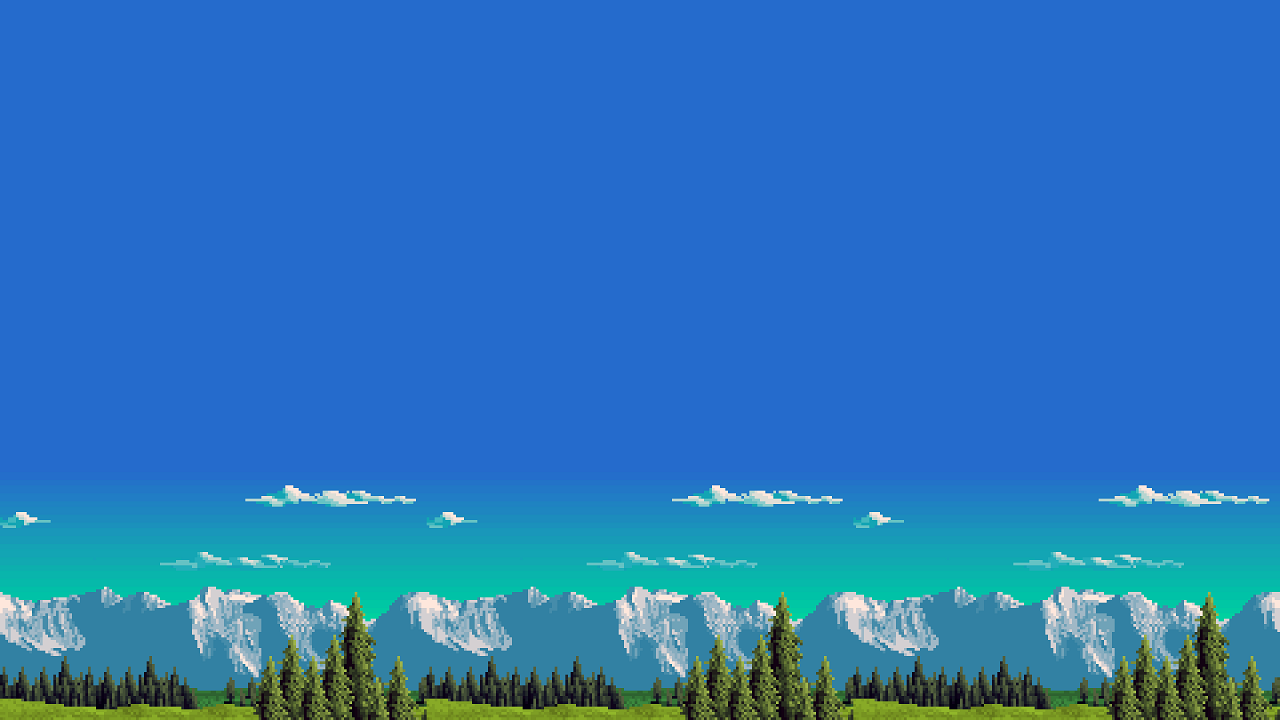
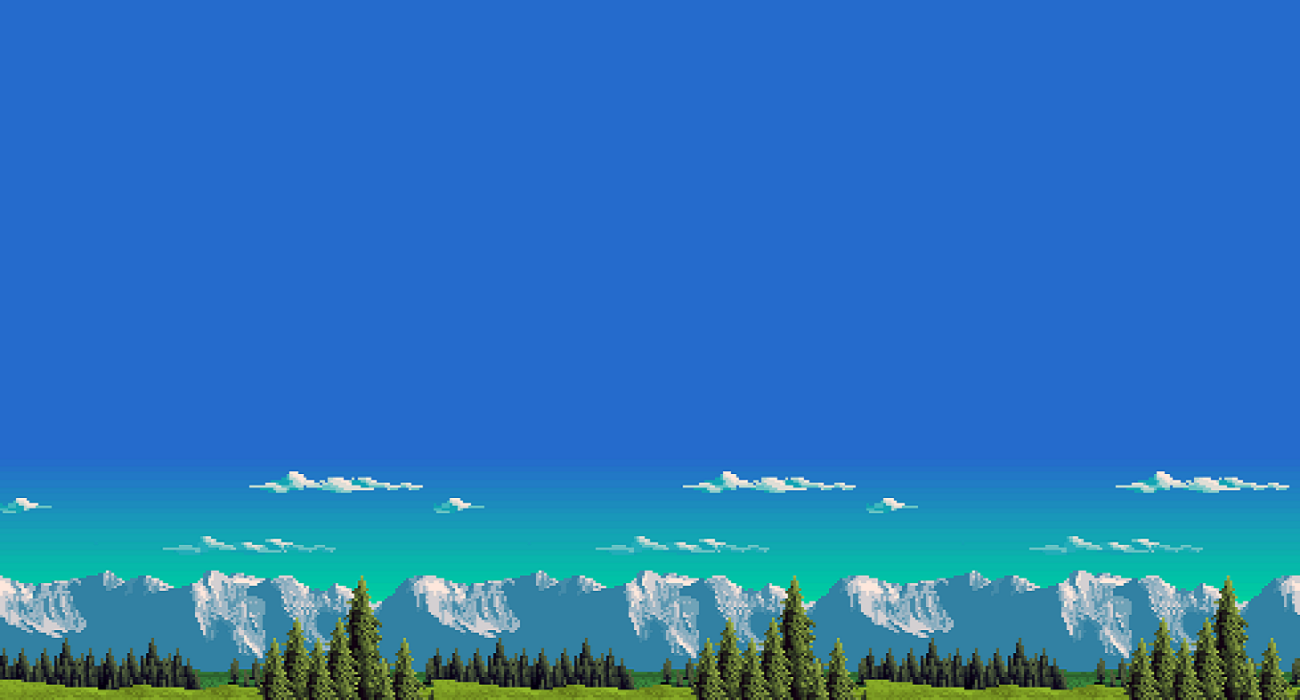
Added More Assets and Changes in Map 1

diff --git a/scenes/map1.js b/scenes/map1.js
@@ -1,8 +1,10 @@
 var map1Scene = new Phaser.Scene('map1');
-var positionYPlayer = 5;
 var positionXPlayer = 2;
-var positionYEnemy = 5;
-var positionXEnemy = 11;
+var positionYPlayer = 4;
+var positionXEnemy = 9;
+var positionYEnemy = 4;
+var positionXPortal = 13;
+var positionYPortal = 4;
 var lives = localStorage.getItem("lives");
 var textP;
 var textE;
@@ -10,7 +12,7 @@ var textB;
 var oldXYPlayer = [2,5];
 
 //Set obstacles location
-var blocked = ['4,5', '6,4','8,6'];
+var blocked = ['4,3','7,4','4,5','7,6','8,6','7,2','8,2','10,3','10,5'];
 
 //Background Song
 var bgSong = new Audio('assets/sounds/bgSong.mp3');
@@ -39,7 +41,10 @@ map1Scene.preload = function () {
     this.load.image('enemy', 'assets/images/enemy.png');
     this.load.image('portal', 'assets/images/portal.png');
     this.load.image('life', 'assets/images/heart.png');
-    this.load.image('obstacle','assets/images/obstacle.png');
+    this.load.image('fire','assets/images/obstacles/fire.png');
+    this.load.image('barrel','assets/images/obstacles/barrel.png');
+    this.load.image('rock','assets/images/obstacles/rock.png');
+    this.load.image('bush','assets/images/obstacles/bush.png');
     this.load.image('skull','assets/images/skull.png')
 };
 
@@ -62,24 +67,32 @@ map1Scene.create = function () {
     this.space = this.input.keyboard.addKey(Phaser.Input.Keyboard.KeyCodes.SPACE);
 
     //Player Sprite
-    this.player = this.add.sprite(140, this.sys.game.config.height / 2, 'player');
+    this.player = this.add.sprite(150, 350, 'player');
     this.player.setScale(1);
 
     //portal Sprite
-    this.portal = this.add.sprite(this.sys.game.config.width - 100, this.sys.game.config.height / 2, 'portal');
-    this.portal.setScale(0.4);
+    this.portal = this.add.sprite(1250, 350, 'portal');
+    this.portal.setScale(0.3);
 
     //Enemy Sprite
-    this.enemy = this.add.sprite(this.sys.game.config.width - 420, this.sys.game.config.height /2, 'enemy')
+    this.enemy = this.add.sprite(850, 350, 'enemy')
     this.enemy.setScale(1);
 
     //Obstacles
-    this.obstacle = this.add.sprite(300, 360, 'obstacle')
-    this.obstacle.setScale(0.13);
-    this.obstacle = this.add.sprite(460, 280, 'obstacle')
-    this.obstacle.setScale(0.13);
-    this.obstacle = this.add.sprite(620, 440, 'obstacle')
-    this.obstacle.setScale(0.13);
+    this.fire1 = this.add.sprite(650, 350, 'fire')
+    this.fire1.setScale(0.15);
+    this.barrel1 = this.add.sprite(350, 250, 'barrel')
+    this.barrel1.setScale(0.5);
+    this.barrel2 = this.add.sprite(350, 450, 'barrel')
+    this.barrel2.setScale(0.5);
+    this.rock1 = this.add.sprite(700, 525, 'rock')
+    this.rock1.setScale(0.3);
+    this.rock2 = this.add.sprite(700, 125, 'rock')
+    this.rock2.setScale(0.3);
+    this.bush1 = this.add.sprite(950, 250, 'bush')
+    this.bush1.setScale(0.3);
+    this.bush2 = this.add.sprite(950, 450, 'bush')
+    this.bush2.setScale(0.3);
 
     this.isPlayerAlive = true;
 
@@ -99,25 +112,25 @@ map1Scene.update = function () {
     
     //Setting the commands to the player walk and the enemy walk
     if (Phaser.Input.Keyboard.JustDown(this.right) && this.allowedToMove(positionXPlayer+1,positionYPlayer)){
-        this.player.x += 80;
+        this.player.x += 100;
         this.enemyWalk(positionXPlayer,positionYPlayer,positionXEnemy,positionYEnemy);
         oldXYPlayer = [positionXPlayer,positionYPlayer];
         positionXPlayer += 1;
     }
     if (Phaser.Input.Keyboard.JustDown(this.left) && this.allowedToMove(positionXPlayer-1,positionYPlayer)) {
-        this.player.x -= 80;
+        this.player.x -= 100;
         this.enemyWalk(positionXPlayer,positionYPlayer,positionXEnemy,positionYEnemy);
         oldXYPlayer = [positionXPlayer,positionYPlayer]; 
         positionXPlayer -= 1;
     }
     if (Phaser.Input.Keyboard.JustDown(this.up) && this.allowedToMove(positionXPlayer,positionYPlayer-1)) {
-        this.player.y -= 80;
+        this.player.y -= 100;
         this.enemyWalk(positionXPlayer,positionYPlayer,positionXEnemy,positionYEnemy);
         oldXYPlayer = [positionXPlayer,positionYPlayer]; 
         positionYPlayer -= 1;
     }
     if (Phaser.Input.Keyboard.JustDown(this.down) && this.allowedToMove(positionXPlayer,positionYPlayer+1)) {
-        this.player.y += 80;
+        this.player.y += 100;
         this.enemyWalk(positionXPlayer,positionYPlayer,positionXEnemy,positionYEnemy);
         oldXYPlayer = [positionXPlayer,positionYPlayer]; 
         positionYPlayer += 1;
@@ -132,7 +145,7 @@ map1Scene.update = function () {
     //}
  
     //When player reachs the objective
-    if (Phaser.Geom.Intersects.RectangleToRectangle(this.player.getBounds(), this.portal.getBounds())) {
+    if (positionXPlayer == positionXPortal && positionYPlayer == positionYPortal) {
         lives = 5;
         bgSong.pause();
         this.scene.start('win');
@@ -166,9 +179,9 @@ map1Scene.allowedToMove = function(positionXPlayer,positionYPlayer){
         bY = blocked[i].split(",")[1];
 
         //Bounds of map
-        // 16 is the limit of X
-        // 10 is the limit of Y
-        if (positionXPlayer == 0 || positionYPlayer == 0 || positionXPlayer == 16 || positionYPlayer == 10){
+        // 14 is the limit of X
+        // 8 is the limit of Y
+        if (positionXPlayer == 0 || positionYPlayer == 0 || positionXPlayer == 14 || positionYPlayer == 8){
             allowed = false;
         }
         //Obstacles
@@ -192,10 +205,10 @@ map1Scene.updateText = function(){
 
 //When player dies, reset position counter
 map1Scene.resetPosition = function(){
-    positionYPlayer = 5;
     positionXPlayer = 2;
-    positionYEnemy = 5;
-    positionXEnemy = 11;
+    positionYPlayer = 4;
+    positionXEnemy = 9;
+    positionYEnemy = 4;
 }
 
 
@@ -229,35 +242,35 @@ map1Scene.enemyWalk = function(){
     lowestsValue = this.minor(array);
     
     if (lowestsValue[0] == left && this.allowedToMove(positionXEnemy-1,positionYEnemy)){
-        this.enemy.x -= 80;
+        this.enemy.x -= 100;
         positionXEnemy -= 1;
     }
     else if (lowestsValue[0] == right && this.allowedToMove(positionXEnemy+1,positionYEnemy)){
-        this.enemy.x += 80;
+        this.enemy.x += 100;
         positionXEnemy += 1;
     }
     else if (lowestsValue[0] == up && this.allowedToMove(positionXEnemy,positionYEnemy-1)){
-        this.enemy.y -= 80;
+        this.enemy.y -= 100;
         positionYEnemy -= 1;
     }
     else if (lowestsValue[0] == down && this.allowedToMove(positionXEnemy,positionYEnemy+1)){
-        this.enemy.y += 80;
+        this.enemy.y += 100;
         positionYEnemy += 1;
     }
     else if (lowestsValue[1] == left && this.allowedToMove(positionXEnemy-1,positionYEnemy)){
-        this.enemy.x -= 80;
+        this.enemy.x -= 100;
         positionXEnemy -= 1;
     }
     else if (lowestsValue[1] == right && this.allowedToMove(positionXEnemy+1,positionYEnemy)){
-        this.enemy.x += 80;
+        this.enemy.x += 100;
         positionXEnemy += 1;
     }
     else if (lowestsValue[1] == up && this.allowedToMove(positionXEnemy,positionYEnemy-1)){
-        this.enemy.y -= 80;
+        this.enemy.y -= 100;
         positionYEnemy -= 1;
     }
     else if (lowestsValue[1] == down && this.allowedToMove(positionXEnemy,positionYEnemy+1)){
-        this.enemy.y += 80;
+        this.enemy.y += 100;
         positionYEnemy += 1;
     }
 };

diff --git a/game.js b/game.js
@@ -1,7 +1,7 @@
 (function () {
     var config = {
-        width: 1280,
-        height: 720,
+        width: 1300,
+        height: 700,
         type: Phaser.AUTO,
         title: 'ThinkScape',
         backgroundColor: 0x336699,
